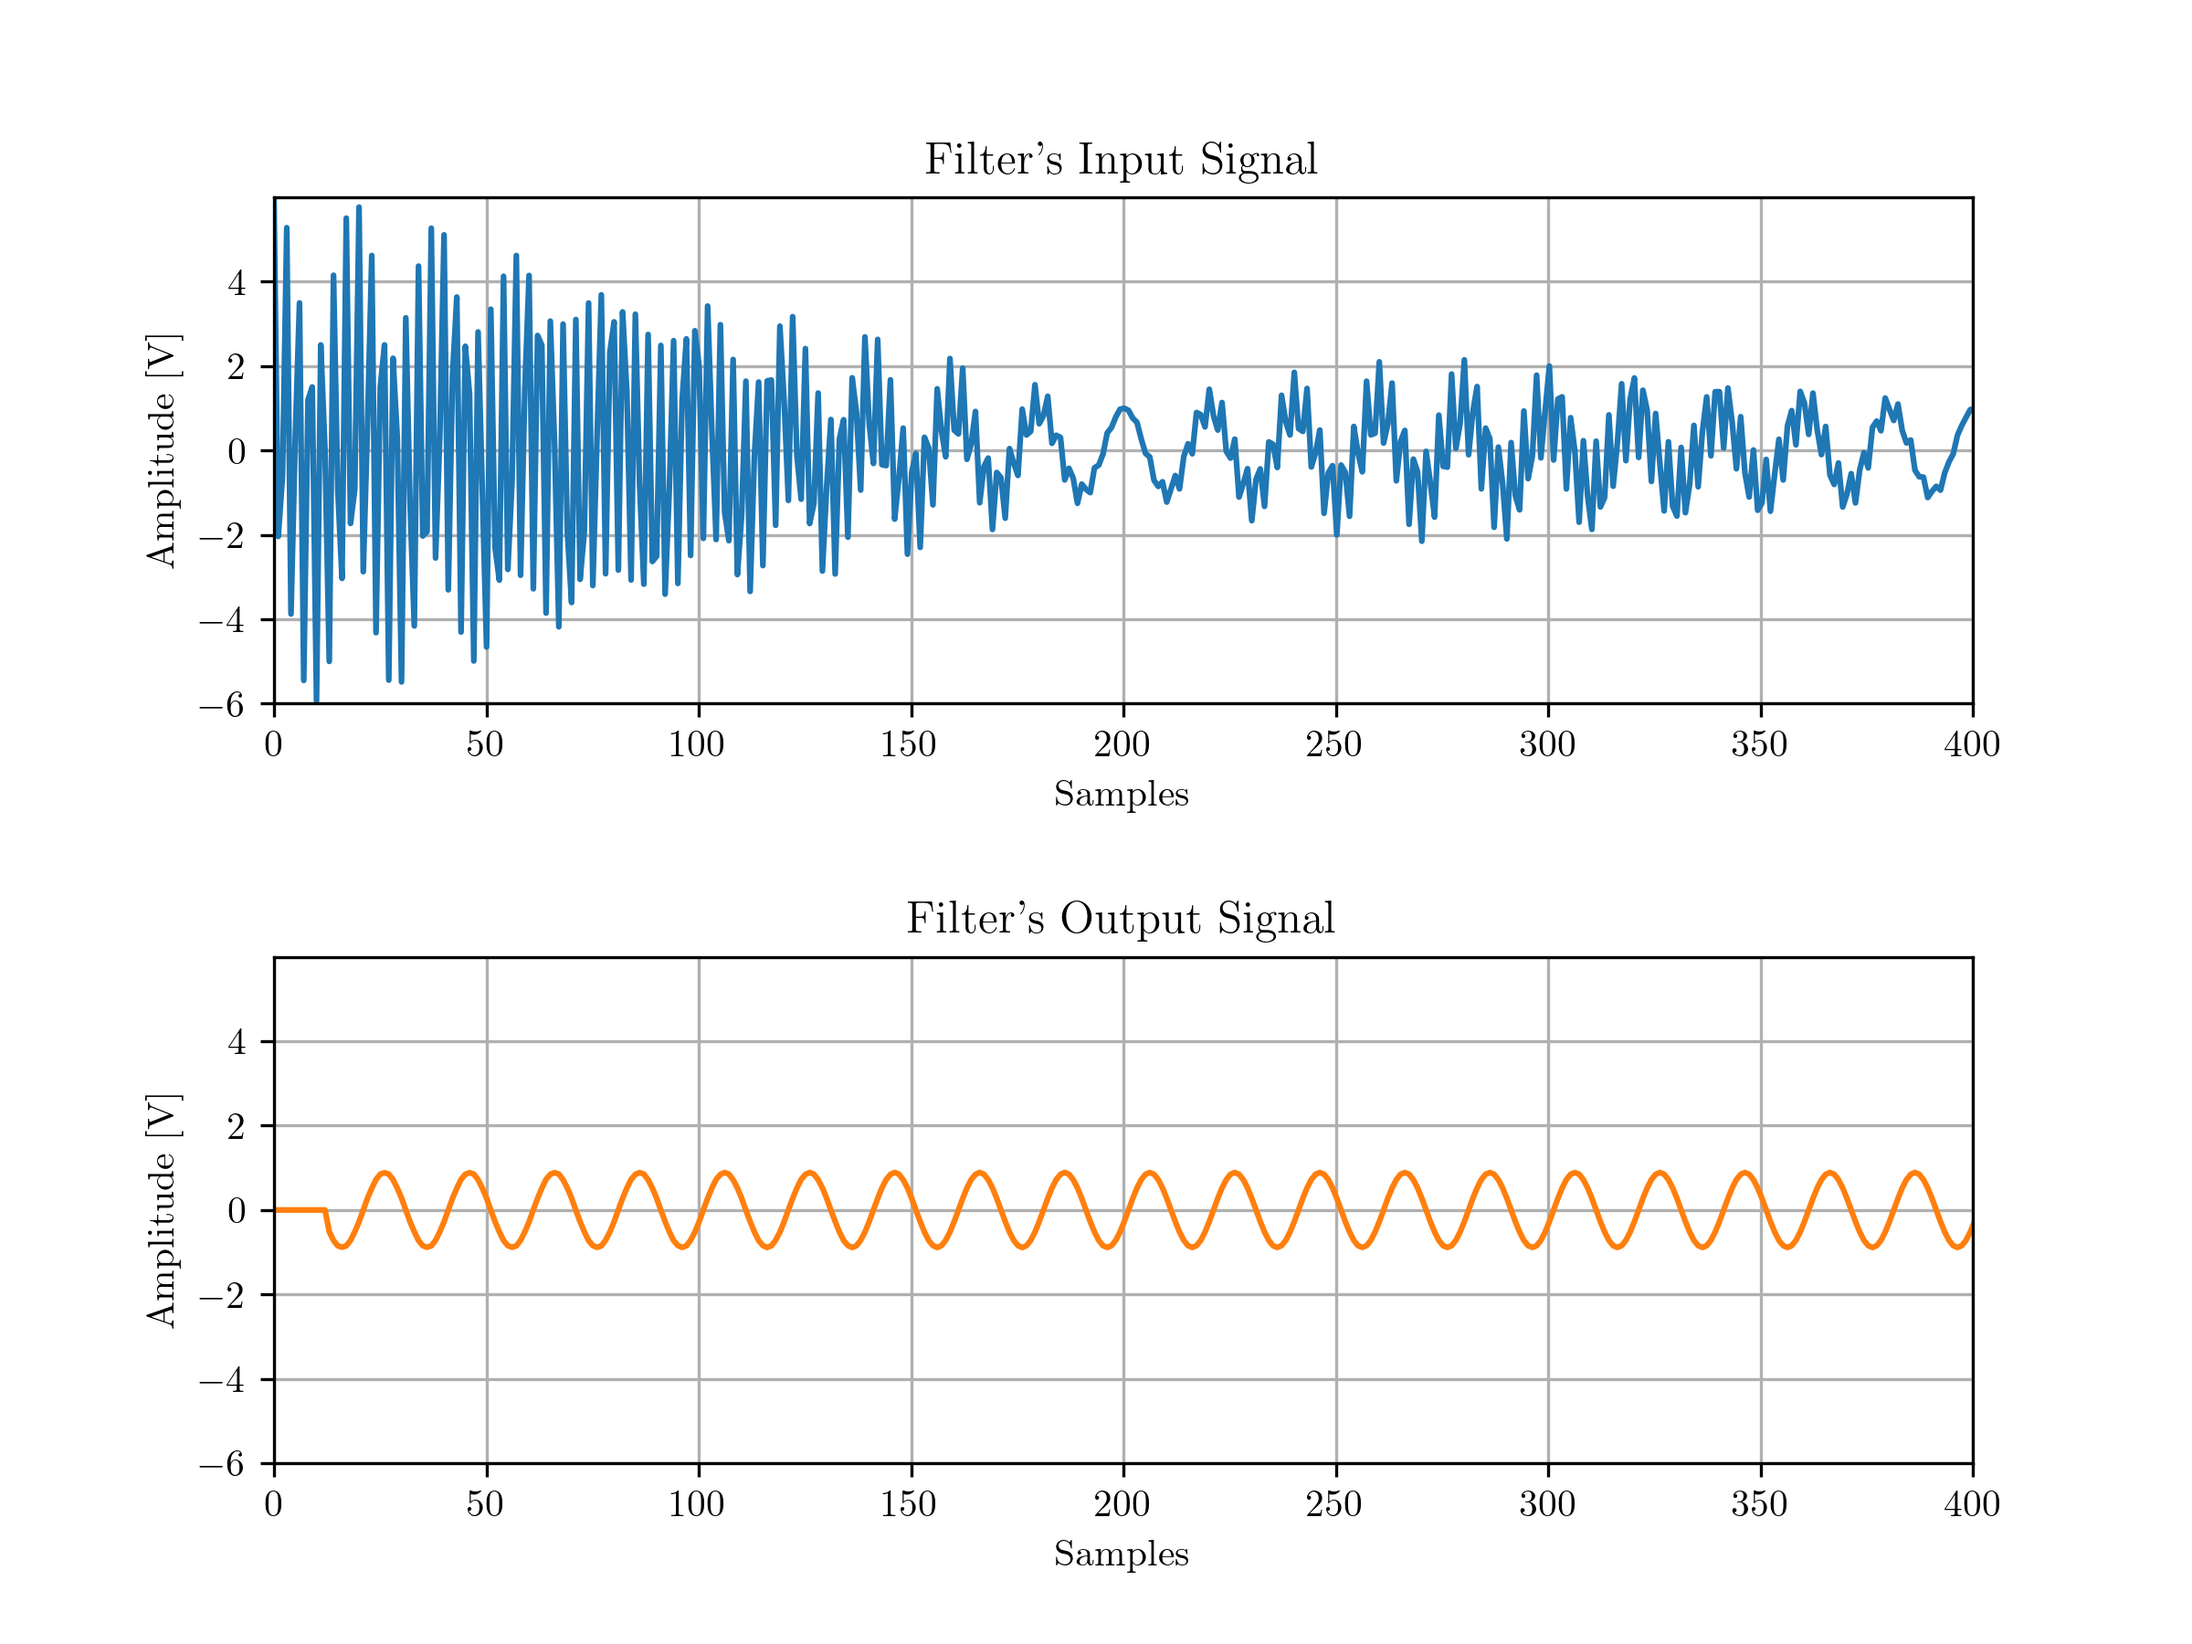
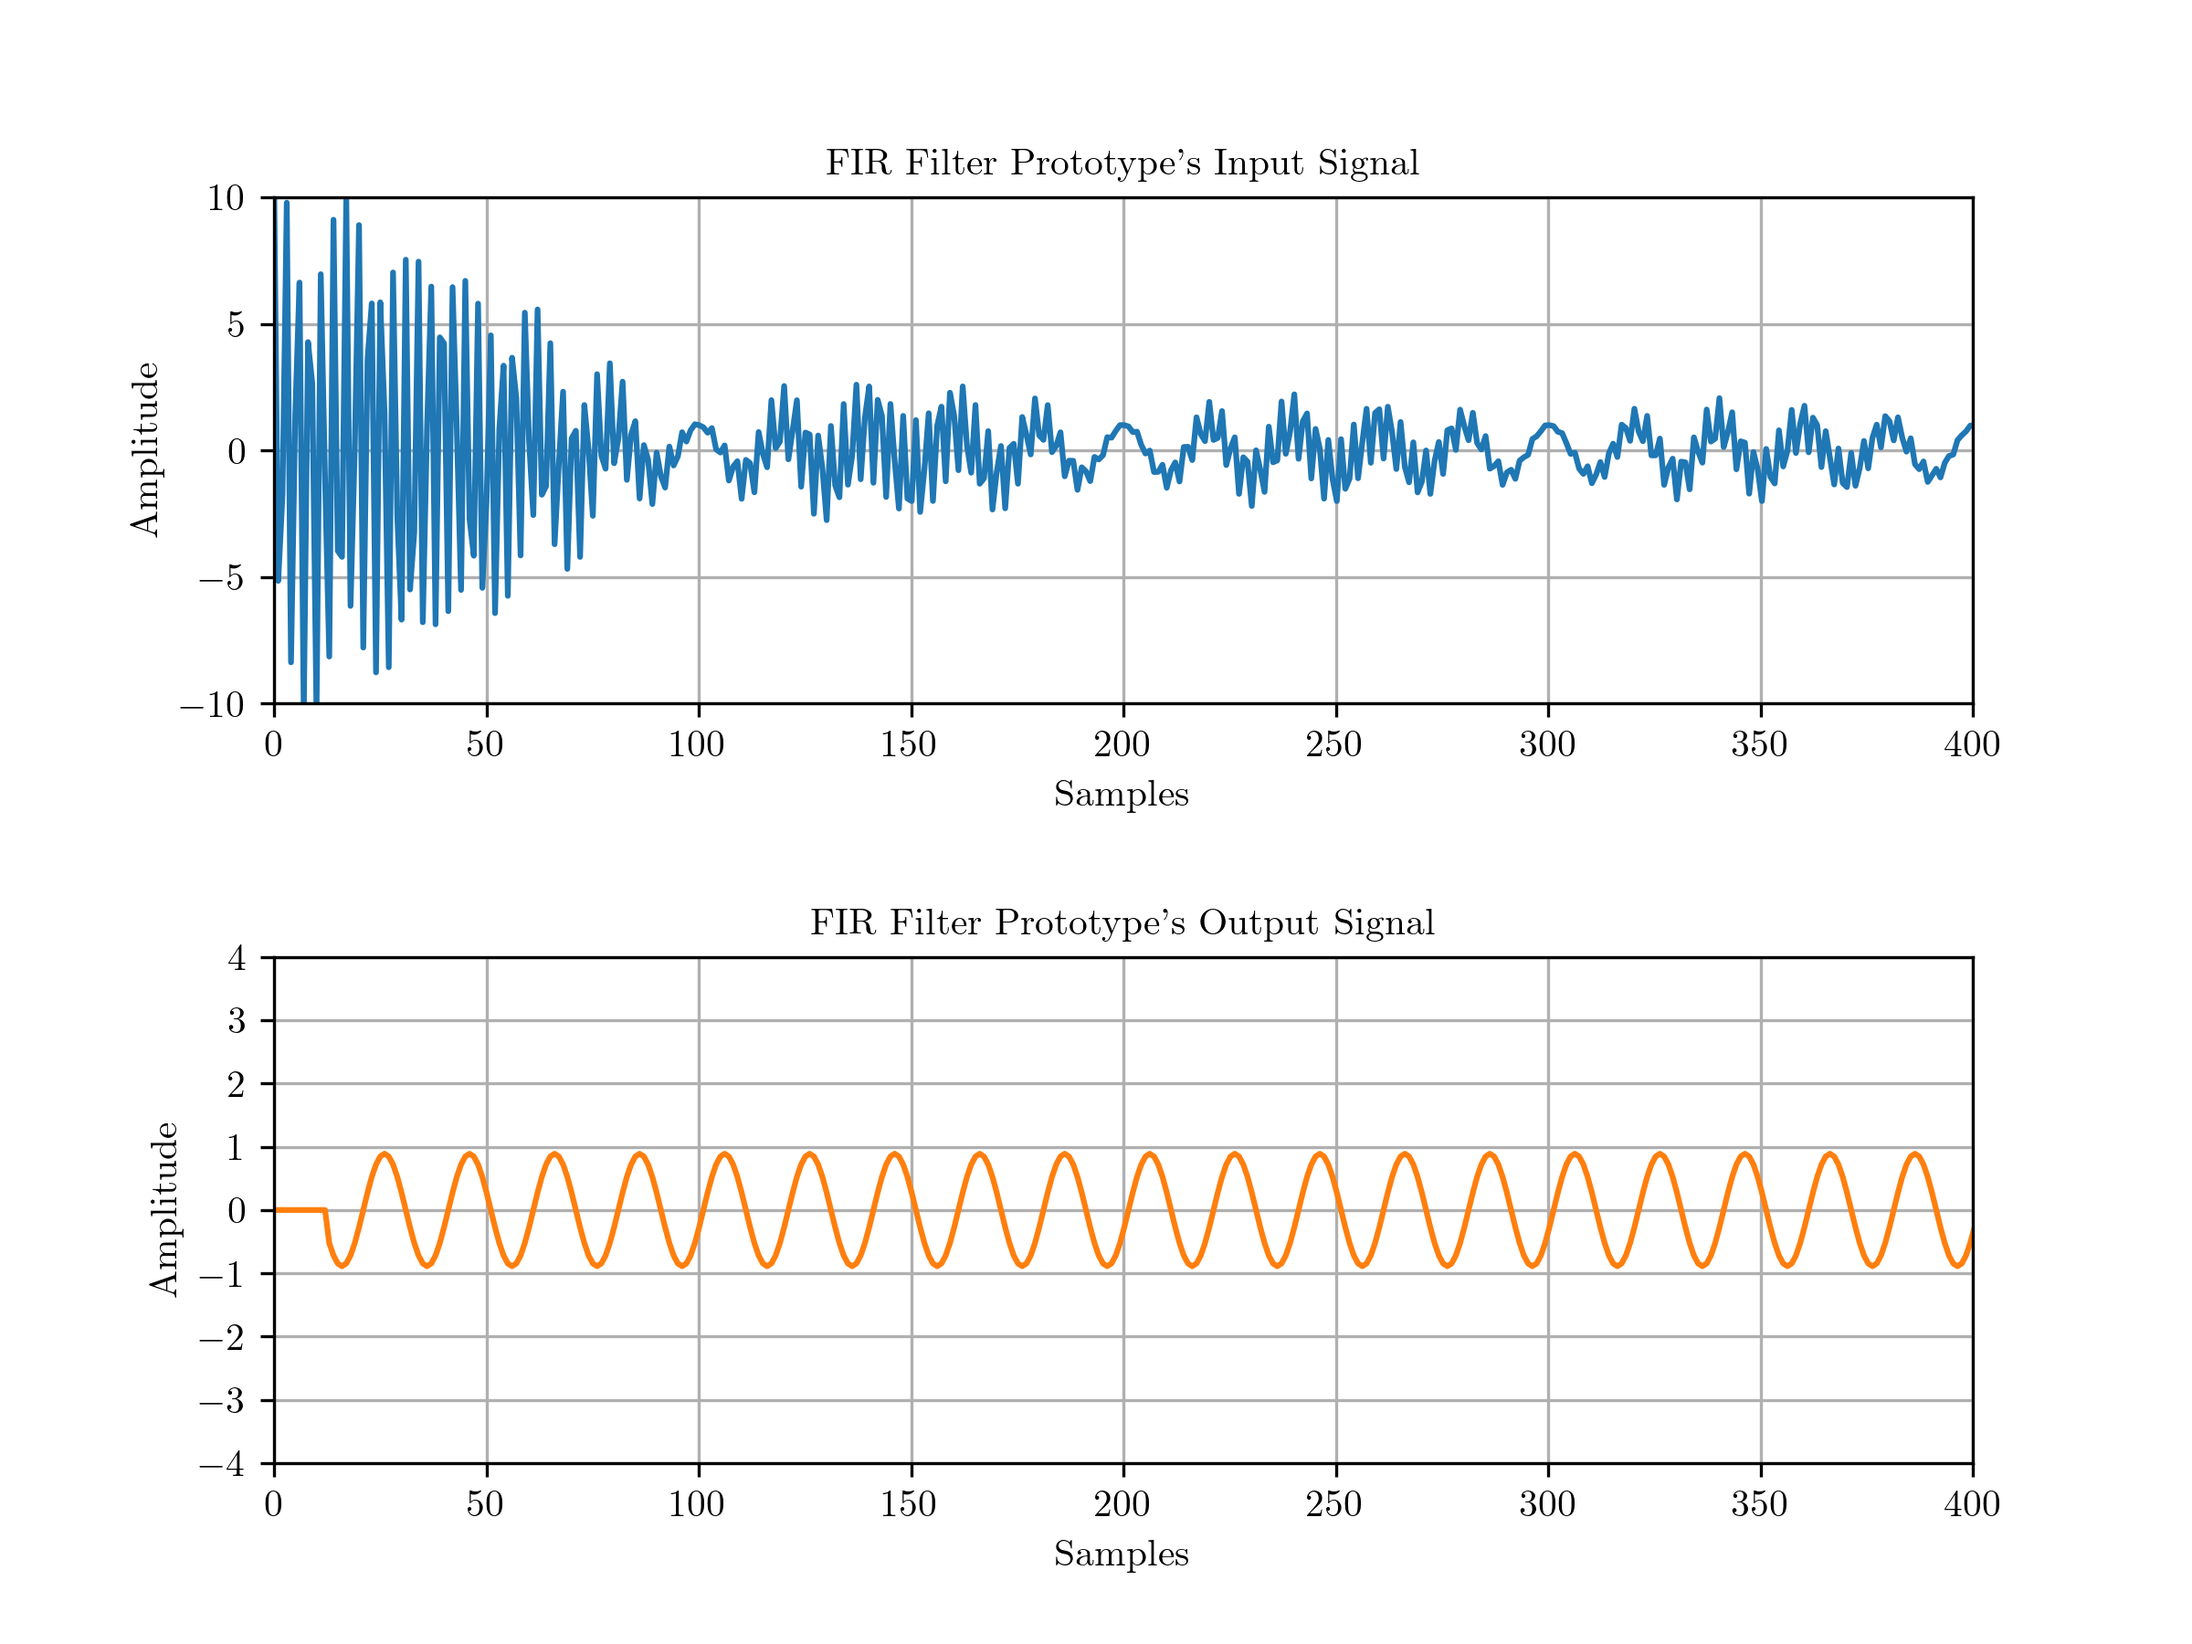
Modificaciones en el prototipo del filtro.

diff --git a/TP_Final/Prototipo/FIR_Filter_Prototype_02.py b/TP_Final/Prototipo/FIR_Filter_Prototype_02.py
@@ -41,11 +41,13 @@ def input_signal(f, f_sampling, N):
     t = np.linspace(0, (N-1)/f_sampling, N)
 
     # Signal
-    x = np.cos(2 * np.pi * f * t)
+    x = np.cos(2 * np.pi * f * t) 
 
-    for i in range(5):
-        f_actual = 200000 + (i * 1000)  # Incrementa la frecuencia en pasos de 1000 Hz
-        x = x + np.cos(2 * np.pi * f_actual * t)
+    # Add harmonics
+    x = x + np.cos(2 * np.pi * 349610 * t) + np.cos(2 * np.pi * 351563 * t) + np.cos(2 * np.pi * 353516 * t) + np.cos(2 * np.pi * 355469 * t) + np.cos(2 * np.pi * 357422 * t) + np.cos(2 * np.pi * 359375 * t) 
+
+    # Add DC component
+    x = x + 7;
 
     # Add noise
     # x = x + np.random.normal(0, 0.5, N)
@@ -84,45 +86,56 @@ def plot_fir_response(h, f_sampling):
     # Calcula la fase en grados
     phase_response_deg = np.angle(mag_response, deg=True)
 
+    phase_response_rad = np.deg2rad(phase_response_deg)  # Convertir a radianes
+    phase_response_unwrapped_rad = np.unwrap(phase_response_rad)  # Realizar phase unwrap
+    phase_response_unwrapped_deg = np.rad2deg(phase_response_unwrapped_rad)  # Convertir de nuevo a grados
+    # phase_response_wrapped_deg = np.mod(phase_response_unwrapped_deg, 360)  # Realizar phase wrap
+    phase_response_wrapped_deg = np.remainder(phase_response_unwrapped_deg + 180, 360) - 180  # Realizar phase wrap
+
     # Convierte la frecuencia de radianes a Hertz
     freq_hz = w * f_sampling / (2 * np.pi)
 
     # Grafica la magnitud de la respuesta en frecuencia
     plt.figure()
     plt.subplot(2, 1, 1)
-    plt.plot(freq_hz, mag_response_db)
-    plt.title('Magnitude Response', fontsize=12)
+    plt.plot(freq_hz/1000, mag_response_db)
+    plt.title("FIR Filter's Magnitude Response", fontsize=10)
     plt.ylabel('Magnitude [dB]', fontsize=10)
-    plt.xlabel('Frequency [Hz]', fontsize=10)
-    plt.xlim([0, 5*f_cutoff]) # Set x-axis limits
+    plt.xlabel('Frequency [kHz]', fontsize=10)
+    plt.xlim([0, 5*f_cutoff/1000]) # Set x-axis limits
+    plt.ylim([-15, 81]) # Set y-axis limits
+    plt.yticks(np.arange(-15, 82, 12)) # Set y-axis ticks
     plt.grid()
 
     # Grafica la fase de la respuesta en frecuencia
     plt.subplot(2, 1, 2)
-    plt.plot(freq_hz, phase_response_deg)
-    plt.title('Phase Response', fontsize=12)
+    plt.plot(freq_hz/1000, phase_response_wrapped_deg)
+    plt.title("FIR Filter's Phase Response", fontsize=10)
     plt.ylabel('Phase [degrees]', fontsize=10)
-    plt.xlabel('Frequency [Hz]', fontsize=10)
-    plt.xlim([0, 5*f_cutoff]) # Set x-axis limits
+    plt.xlabel('Frequency [kHz]', fontsize=10)
+    plt.xlim([0, 5*f_cutoff/1000]) # Set x-axis limits
+    plt.ylim([-180, 180]) # Set y-axis limits
+    plt.yticks(np.arange(-180, 181, 45)) # Set y-axis ticks
     plt.grid()
 
     # Adjust subplots layout
     plt.subplots_adjust(hspace=0.5)
 
     # Save plot as .png file and display it
-    plt.savefig('Plots/P03_Plot_01.png', dpi=300) # Save plot as .png file
+    plt.savefig('Plots/P02_Plot_01.png', dpi=300) # Save plot as .png file
 
     # Grafica la magnitud de la respuesta en frecuencia sola
     plt.figure()
-    plt.plot(freq_hz, mag_response_db)
-    plt.title('Magnitude Response', fontsize=12)
+    plt.plot(freq_hz/1000, mag_response_db)
+    plt.title("FIR Filter's Magnitude Response", fontsize=10)
     plt.ylabel('Magnitude [dB]', fontsize=10)
-    plt.xlabel('Frequency [Hz]', fontsize=10)
-    plt.xlim([0, 5*f_cutoff]) # Set x-axis limits
-    plt.grid()
+    plt.xlabel('Frequency [kHz]', fontsize=10)
+    plt.xlim([0, 5*f_cutoff/1000]) # Set x-axis limits
+    plt.ylim([-15, 80]) # Set y-axis limits
+    plt.yticks(np.arange(-15, 82, 12)) # Set y-axis ticks
 
     # Save plot as .png file and display it
-    plt.savefig('Plots/P03_Plot_02.png', dpi=300) # Save plot as .png file
+    plt.savefig('Plots/P02_Plot_02.png', dpi=300) # Save plot as .png file
  
 # ---------------------------------------------------------------------------------------------- #
 
@@ -137,27 +150,27 @@ def plot_input_output(x,y):
     plt.plot(np.linspace(0, N, N), x, color='#1f77b4')  # Plot x
     plt.title('Filter\'s Input Signal', fontsize=12)  # Set title and font size
     plt.xlabel('Samples', fontsize=10)  # Set x-axis label and font size
-    plt.ylabel('Amplitude [V]', fontsize=10)  # Set y-axis label and font size
-    plt.xlim([0, 400]) # Set x-axis limits
-    plt.ylim([-6, 6])  # Set y-axis limits
-    plt.yticks(np.arange(-6, 6, 2))  # Cambia el paso según tus necesidades
+    plt.ylabel('Amplitude', fontsize=10)  # Set y-axis label and font size
+    plt.xlim([14, 400]) # Set x-axis limits
+    # plt.ylim([-6, 6])  # Set y-axis limits
+    # plt.yticks(np.arange(-6, 6, 2))  # Cambia el paso según tus necesidades
     plt.grid() # Enable grid
 
     plt.subplot(2, 1, 2)
     plt.plot(np.linspace(0, N, N), y, color='#ff7f0e') # Plot y
     plt.title('Filter\'s Output Signal', fontsize=12)  # Set title and font size
     plt.xlabel('Samples', fontsize=10)  # Set x-axis label and font size
-    plt.ylabel('Amplitude [V]', fontsize=10)  # Set y-axis label and font size
-    plt.xlim([0, 400]) # Set x-axis limits
-    plt.ylim([-6, 6])  # Set y-axis limits
-    plt.yticks(np.arange(-6, 6, 2))  # Cambia el paso según tus necesidades
+    plt.ylabel('Amplitude', fontsize=10)  # Set y-axis label and font size
+    plt.xlim([14, 400]) # Set x-axis limits
+    # plt.ylim([-6, 6])  # Set y-axis limits
+    # plt.yticks(np.arange(-6, 6, 2))  # Cambia el paso según tus necesidades
     plt.grid() # Enable grid
 
     # Adjust subplots layout
     plt.subplots_adjust(hspace=0.5)
 
     # Save plot as .png file and display it
-    plt.savefig('Plots/P03_Plot_00.png', dpi=300) # Save plot as .png file
+    plt.savefig('Plots/P02_Plot_00.png', dpi=300) # Save plot as .png file
 
 # ---------------------------------------------------------------------------------------------- #
 
@@ -167,13 +180,12 @@ def plot_input_output(x,y):
 
 N = 1001 # Signal length.
 M = 13 # Filter length.
-f = 50000 # Signal frequency.
+f = 48828 # Signal frequency.
 f_sampling = 1000000 # Sampling frequency.
 f_cutoff = 100000 # Cutoff frequency 
 
 # Generate filter coefficients.
-h = filter_response(f_cutoff/f_sampling, M)
-# h = np.array([0, 0.02, 0.1, 0.23, 0.3, 0.23, 0.1, 0.02, 0])*100
+h = np.array([0, 0, 75, 430, 1200, 2100, 2500, 2100, 1200, 430, 75, 0, 0])
 sum_coefficients = np.sum(h)
 print(h)
 
@@ -187,7 +199,7 @@ for i in range(M, N):
     # Convolve filter with signal.
     y[i] = np.sum(h * x[i-M+1:i+1])
 
-# y = y/sum_coefficients
+y = y/sum_coefficients - 7
 # h = h/100
 
 plot_input_output(x,y)

diff --git a/TP_Final/Prototipo/FIR_Filter_Prototype_01.py b/TP_Final/Prototipo/FIR_Filter_Prototype_01.py
@@ -43,7 +43,7 @@ def input_signal(f, f_sampling, N):
     # Signal
     x = np.cos(2 * np.pi * f * t)
 
-    for i in range(5):
+    for i in range(10):
         f_actual = 350000 + (i * 1000)  # Incrementa la frecuencia en pasos de 1000 Hz
         x = x + np.cos(2 * np.pi * f_actual * t)
 
@@ -84,26 +84,36 @@ def plot_fir_response(h, f_sampling):
     # Calcula la fase en grados
     phase_response_deg = np.angle(mag_response, deg=True)
 
+    phase_response_rad = np.deg2rad(phase_response_deg)  # Convertir a radianes
+    phase_response_unwrapped_rad = np.unwrap(phase_response_rad)  # Realizar phase unwrap
+    phase_response_unwrapped_deg = np.rad2deg(phase_response_unwrapped_rad)  # Convertir de nuevo a grados
+    # phase_response_wrapped_deg = np.mod(phase_response_unwrapped_deg, 360)  # Realizar phase wrap
+    phase_response_wrapped_deg = np.remainder(phase_response_unwrapped_deg + 180, 360) - 180  # Realizar phase wrap
+
     # Convierte la frecuencia de radianes a Hertz
     freq_hz = w * f_sampling / (2 * np.pi)
 
     # Grafica la magnitud de la respuesta en frecuencia
     plt.figure()
     plt.subplot(2, 1, 1)
-    plt.plot(freq_hz, mag_response_db)
-    plt.title('Filter Magnitude Response', fontsize=12)
+    plt.plot(freq_hz/1000, mag_response_db)
+    plt.title("FIR Filter Prototype's Magnitude Response", fontsize=10)
     plt.ylabel('Magnitude [dB]', fontsize=10)
-    plt.xlabel('Frequency [Hz]', fontsize=10)
-    plt.xlim([0, 5*f_cutoff]) # Set x-axis limits
+    plt.xlabel('Frequency [kHz]', fontsize=10)
+    plt.xlim([0, 5*f_cutoff/1000]) # Set x-axis limits
+    plt.ylim([-84, 0]) # Set y-axis limits
+    plt.yticks(np.arange(-84, 1, 12)) # Set y-axis ticks
     plt.grid()
 
     # Grafica la fase de la respuesta en frecuencia
     plt.subplot(2, 1, 2)
-    plt.plot(freq_hz, phase_response_deg)
-    plt.title('Phase Response', fontsize=12)
+    plt.plot(freq_hz/1000, phase_response_wrapped_deg)
+    plt.title("FIR Filter Protoype's Phase Response", fontsize=10)
     plt.ylabel('Phase [degrees]', fontsize=10)
-    plt.xlabel('Frequency [Hz]', fontsize=10)
-    plt.xlim([0, 5*f_cutoff]) # Set x-axis limits
+    plt.xlabel('Frequency [kHz]', fontsize=10)
+    plt.xlim([0, 5*f_cutoff/1000]) # Set x-axis limits
+    plt.ylim([-180, 180]) # Set y-axis limits
+    plt.yticks(np.arange(-180, 181, 45)) # Set y-axis ticks
     plt.grid()
 
     # Adjust subplots layout
@@ -114,14 +124,13 @@ def plot_fir_response(h, f_sampling):
 
     # Grafica la magnitud de la respuesta en frecuencia sola
     plt.figure()
-    plt.plot(freq_hz, mag_response_db)
-    plt.title('Filter Magnitude Response', fontsize=12)
+    plt.plot(freq_hz/1000, mag_response_db)
+    plt.title("FIR Filter Prototype's Magnitude Response", fontsize=10)
     plt.ylabel('Magnitude [dB]', fontsize=10)
-    plt.xlabel('Frequency [Hz]', fontsize=10)
-    plt.xlim([0, 5*f_cutoff]) # Set x-axis limits
-    plt.ylim([-90, 0]) # Set y-axis limits
-    plt.yticks(np.arange(-96, 1, 12)) 
-    plt.grid()
+    plt.xlabel('Frequency [kHz]', fontsize=10)
+    plt.xlim([0, 5*f_cutoff/1000]) # Set x-axis limits
+    plt.ylim([-84, 0]) # Set y-axis limits
+    plt.yticks(np.arange(-84, 1, 12)) # Set y-axis ticks
 
     # Save plot as .png file and display it
     plt.savefig('Plots/P01_Plot_02.png', dpi=300) # Save plot as .png file
@@ -137,22 +146,22 @@ def plot_input_output(x,y):
     # Plot x and y in two subplots:
     plt.subplot(2, 1, 1)
     plt.plot(np.linspace(0, N, N), x, color='#1f77b4')  # Plot x
-    plt.title('Filter\'s Input Signal', fontsize=12)  # Set title and font size
+    plt.title("FIR Filter Prototype's Input Signal", fontsize=10)
     plt.xlabel('Samples', fontsize=10)  # Set x-axis label and font size
-    plt.ylabel('Amplitude [V]', fontsize=10)  # Set y-axis label and font size
-    plt.xlim([0, 400]) # Set x-axis limits
-    plt.ylim([-6, 6])  # Set y-axis limits
-    plt.yticks(np.arange(-6, 6, 2))  # Cambia el paso según tus necesidades
+    plt.ylabel('Amplitude', fontsize=10)  # Set y-axis label and font size
+    plt.xlim([0,  400]) # Set x-axis limits
+    plt.ylim([-10, 10])  # Set y-axis limits
+    plt.yticks(np.arange(-10, 11, 5))  # Cambia el paso según tus necesidades
     plt.grid() # Enable grid
 
     plt.subplot(2, 1, 2)
     plt.plot(np.linspace(0, N, N), y, color='#ff7f0e') # Plot y
-    plt.title('Filter\'s Output Signal', fontsize=12)  # Set title and font size
+    plt.title("FIR Filter Prototype's Output Signal", fontsize=10)
     plt.xlabel('Samples', fontsize=10)  # Set x-axis label and font size
-    plt.ylabel('Amplitude [V]', fontsize=10)  # Set y-axis label and font size
+    plt.ylabel('Amplitude', fontsize=10)  # Set y-axis label and font size
     plt.xlim([0, 400]) # Set x-axis limits
-    plt.ylim([-6, 6])  # Set y-axis limits
-    plt.yticks(np.arange(-6, 6, 2))  # Cambia el paso según tus necesidades
+    plt.ylim([-4, 4])  # Set y-axis limits
+    plt.yticks(np.arange(-4, 5, 1))  # Cambia el paso según tus necesidades
     plt.grid() # Enable grid
 
     # Adjust subplots layout
@@ -174,8 +183,8 @@ f_sampling = 1000000 # Sampling frequency.
 f_cutoff = 100000 # Cutoff frequency 
 
 # Generate filter coefficients.
-# h = filter_response(f_cutoff/f_sampling, M)
-h = np.array([0, 0, 75, 430, 1200, 2100, 2500, 2100, 1200, 430, 75, 0, 0])
+h = filter_response(f_cutoff/f_sampling, M)
+# h = np.array([0, 0, 75, 430, 1200, 2100, 2500, 2100, 1200, 430, 75, 0, 0])
 sum_coefficients = np.sum(h)
 print(h)
 
@@ -189,8 +198,8 @@ for i in range(M, N):
     # Convolve filter with signal.
     y[i] = np.sum(h * x[i-M+1:i+1])
 
-y = y/sum_coefficients
-h = h/10000
+# y = y/sum_coefficients
+# h = h/10000
 
 print(sum_coefficients)
 
